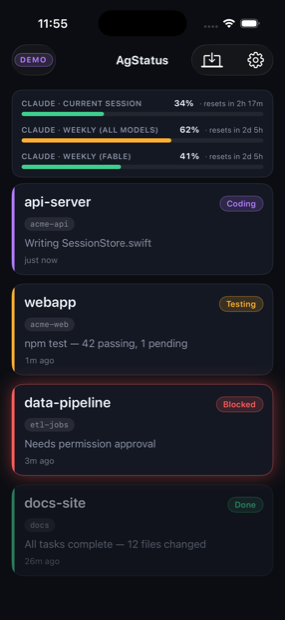
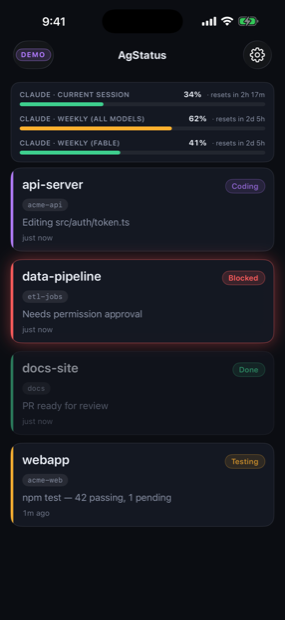
Add App Store screenshots at 6.9 inch
Captured in demo mode at 1320x2868 with Apple's 9:41 status bar: the live
board, a session timeline, and the welcome screen.

The demo timeline was six steps, which left the bottom half of a 6.9"
screen empty; it now runs a full session — including a blocked stretch
that resolves — so the screen fills and the story reads. Landing-page
phone images reuse the same captures.

Changed region(s): [[0.0, 0.0, 0.9825, 0.9194], [0.4491, 0.8581, 0.7298, 0.8887], [0.9544, 0.429, 0.9825, 0.5516]]

diff --git a/ios/AgStatus/DemoData.swift b/ios/AgStatus/DemoData.swift
@@ -89,13 +89,20 @@ enum DemoData {
 
     /// A believable timeline for a demo session, ending in its current state.
     static func history(for session: Session) -> [HistoryEvent] {
+        // A full session's worth of steps: enough to fill the timeline on the
+        // largest iPhone, and to show a blocked stretch resolving.
         let steps: [(AgentStatus, String, Int64)] = [
-            (.idle, "Session started", 42),
-            (.planning, "Reading the codebase…", 39),
-            (.coding, "Editing src/auth/token.ts", 31),
-            (.testing, "npm test — 41 passing, 2 failing", 24),
-            (.coding, "Fixing null check in parser.js", 18),
+            (.idle, "Session started", 46),
+            (.planning, "Reading the codebase…", 44),
+            (.planning, "Drafting an implementation plan", 40),
+            (.coding, "Editing src/auth/token.ts", 35),
+            (.coding, "Implementing retry with backoff", 31),
+            (.testing, "npm test — 41 passing, 2 failing", 26),
+            (.coding, "Fixing null check in parser.js", 22),
+            (.blocked, "Needs permission approval", 18),
+            (.coding, "Refactoring api/routes.ts", 14),
             (.testing, "npm test — 42 passing, 1 pending", 9),
+            (.coding, "Writing SessionStore.swift", 5),
         ]
         var events: [HistoryEvent] = []
         for (index, step) in steps.enumerated() {

diff --git a/docs/appstore/README.md b/docs/appstore/README.md
@@ -1,0 +1,49 @@
+# App Store screenshots
+
+Captured from the iOS Simulator in **demo mode**, so nothing personal appears
+and the board is populated without needing a paired machine.
+
+## What is here
+
+`6.9/` — **1320 × 2868**, the iPhone 6.9" display size App Store Connect
+requires. Apple scales these down for smaller iPhone sizes, so this is the only
+set you need. The app is iPhone-only (`TARGETED_DEVICE_FAMILY = 1`), so no iPad
+screenshots are required.
+
+Upload in this order — the first one is what people see in search results:
+
+| # | File | Shows |
+| --- | --- | --- |
+| 1 | `02-board.png` | The live board: plan-limit bars and four sessions across coding / blocked / done / testing |
+| 2 | `03-history.png` | A session timeline, every status change timestamped |
+| 3 | `01-welcome.png` | Setup options and "Try the demo" — no account required |
+
+## Regenerating
+
+The status bar is Apple's canonical 9:41 with full battery and signal, set via
+`simctl status_bar override`. The history screen has no launch argument and
+cannot be tapped by `simctl`, so a DEBUG-only deep link opens it
+(`AGSTATUS_OPEN_HISTORY=1`, see `BoardView.openHistoryForScreenshots()`).
+
+```bash
+DEV=$(xcrun simctl list devices available | grep "iPhone 17 Pro Max" | grep -o "[0-9A-F-]\{36\}")
+xcrun simctl boot "$DEV"
+xcrun simctl install "$DEV" /path/to/AgStatus.app
+xcrun simctl status_bar "$DEV" override --time "9:41" --batteryState charged \
+  --batteryLevel 100 --cellularMode active --cellularBars 4 --wifiBars 3 --dataNetwork wifi
+
+# board
+SIMCTL_CHILD_AGSTATUS_DEMO=1 xcrun simctl launch --terminate-running-process "$DEV" com.kardanov.agstatus
+xcrun simctl io "$DEV" screenshot 6.9/02-board.png
+
+# history
+SIMCTL_CHILD_AGSTATUS_DEMO=1 SIMCTL_CHILD_AGSTATUS_OPEN_HISTORY=1 \
+  xcrun simctl launch --terminate-running-process "$DEV" com.kardanov.agstatus
+xcrun simctl io "$DEV" screenshot 6.9/03-history.png
+```
+
+Install the app on a simulator that has never run it to get the welcome screen —
+otherwise the saved board sends you straight to the board.
+
+The same captures, resized, are the phone images on the landing page
+(`public/img/app-board.png`, `public/img/app-history.png`).
